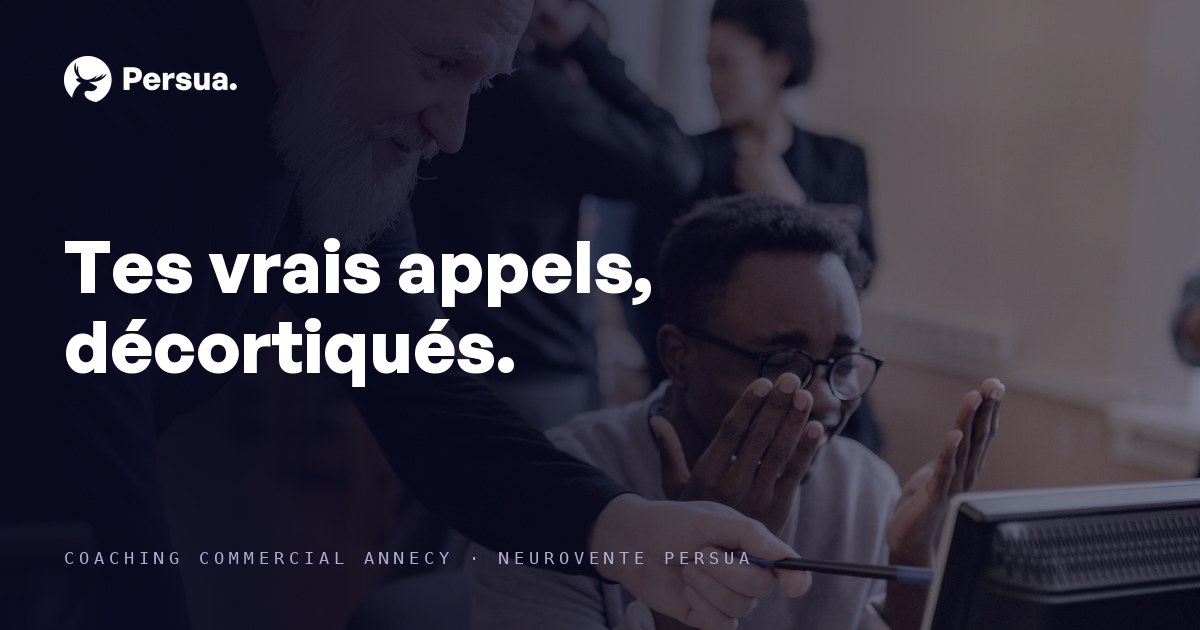
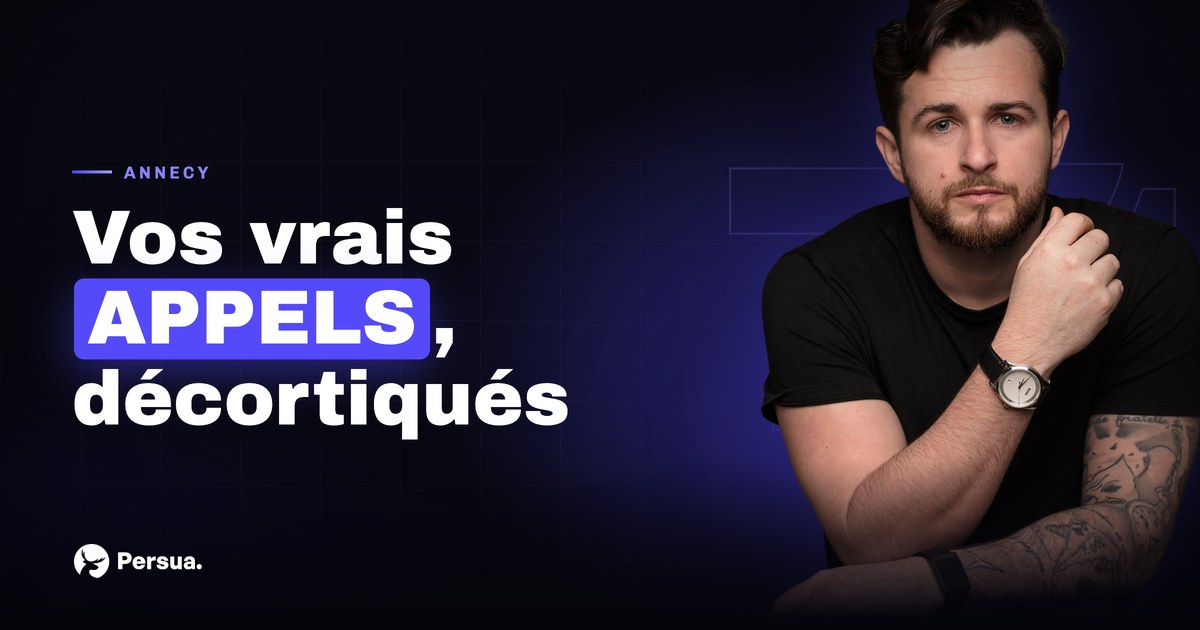
blog: nouvelles couvertures de marque (photo de Steven, DA du kit LinkedIn) pour 32 articles ; image d'en-tête et og:image ajoutées aux 19 articles qui n'en avaient pas

diff --git a/objection-envoyez-moi-une-proposition.html b/objection-envoyez-moi-une-proposition.html
@@ -4,7 +4,7 @@
 <meta charset="UTF-8">
 <meta name="viewport" content="width=device-width, initial-scale=1.0">
 <link rel="icon" type="image/png" href="assets/meta/favicon.png">
-<meta property="og:image" content="https://persua-neurovente.com/assets/meta/og-image.png">
+<meta property="og:image" content="https://persua-neurovente.com/assets/articles/objection-envoyez-moi-une-proposition.jpg">
 <meta property="og:image:width" content="1200">
 <meta property="og:image:height" content="630">
 <meta name="twitter:card" content="summary_large_image">
@@ -47,6 +47,8 @@
   <div class="a-meta"><span class="av">SL</span><span>Par Steven Lefrançois · 6 min de lecture</span></div>
 
   <p class="lead">« Envoyez-moi une proposition par mail » est le plus souvent une fuite polie, pas un signal d'achat. C'est ce que dit un prospect dont le Système 1 n'a rien ressenti et qui cherche à sortir du rendez-vous sans vous vexer. Votre réponse ne consiste pas à ouvrir votre ordinateur, mais à qualifier l'intérêt réel avant d'envoyer quoi que ce soit, et à ancrer une prochaine étape datée. Parce qu'un document écrit, seul, ne vendra jamais à votre place.</p>
+  <figure class="article-hero"><img src="assets/articles/objection-envoyez-moi-une-proposition.jpg" width="1200" height="630" loading="lazy" decoding="async" alt="« Envoyez-moi une proposition par mail » : le piège (et comment réagir)"></figure>
+
 
   <div class="article-body">
     <div class="takeaways">

diff --git a/objection-decideur-absent.html b/objection-decideur-absent.html
@@ -4,7 +4,7 @@
 <meta charset="UTF-8">
 <meta name="viewport" content="width=device-width, initial-scale=1.0">
 <link rel="icon" type="image/png" href="assets/meta/favicon.png">
-<meta property="og:image" content="https://persua-neurovente.com/assets/meta/og-image.png">
+<meta property="og:image" content="https://persua-neurovente.com/assets/articles/objection-decideur-absent.jpg">
 <meta property="og:image:width" content="1200">
 <meta property="og:image:height" content="630">
 <meta name="twitter:card" content="summary_large_image">
@@ -47,6 +47,8 @@
   <div class="a-meta"><span class="av">SL</span><span>Par Steven Lefrançois · 7 min de lecture</span></div>
 
   <p class="lead">« Je dois en parler à mon associé » se gère avant même de l'entendre. La vraie erreur n'est pas de tomber sur un décideur absent, c'est de le découvrir à la fin. Si vous avez cartographié le circuit de décision dès votre découverte, cette phrase ne vous surprend plus : vous savez qui décide, vous avez armé votre interlocuteur pour qu'il vende en interne, et vous proposez d'inclure le décideur plutôt que de le laisser deviner.</p>
+  <figure class="article-hero"><img src="assets/articles/objection-decideur-absent.jpg" width="1200" height="630" loading="lazy" decoding="async" alt="« Je dois en parler à mon associé » : gérer le décideur absent"></figure>
+
 
   <div class="article-body">
     <div class="takeaways">

diff --git a/systeme-1-systeme-2-decision-achat.html b/systeme-1-systeme-2-decision-achat.html
@@ -4,7 +4,7 @@
 <meta charset="UTF-8">
 <meta name="viewport" content="width=device-width, initial-scale=1.0">
 <link rel="icon" type="image/png" href="assets/meta/favicon.png">
-<meta property="og:image" content="https://persua-neurovente.com/assets/meta/og-image.png">
+<meta property="og:image" content="https://persua-neurovente.com/assets/articles/systeme-1-systeme-2-decision-achat.jpg">
 <meta property="og:image:width" content="1200">
 <meta property="og:image:height" content="630">
 <meta name="twitter:card" content="summary_large_image">
@@ -47,6 +47,8 @@
   <div class="a-meta"><span class="av">SL</span><span>Par Steven Lefrançois · 8 min de lecture</span></div>
 
   <p class="lead">Votre client décide d'acheter avec un cerveau qui fonctionne à deux vitesses. Le Système 1, rapide et émotionnel, tranche presque instantanément, bien avant qu'il puisse l'expliquer. Le Système 2, lent et logique, arrive après, non pas pour décider mais pour justifier. Autrement dit : l'émotion décide, la raison habille. Si vous argumentez avant d'avoir fait ressentir, vous parlez au mauvais système au mauvais moment.</p>
+  <figure class="article-hero"><img src="assets/articles/systeme-1-systeme-2-decision-achat.jpg" width="1200" height="630" loading="lazy" decoding="async" alt="Système 1 / Système 2 : comment le cerveau décide d'acheter"></figure>
+
 
   <div class="article-body">
     <div class="takeaways">

diff --git a/questions-ouvertes-vente.html b/questions-ouvertes-vente.html
@@ -4,7 +4,7 @@
 <meta charset="UTF-8">
 <meta name="viewport" content="width=device-width, initial-scale=1.0">
 <link rel="icon" type="image/png" href="assets/meta/favicon.png">
-<meta property="og:image" content="https://persua-neurovente.com/assets/meta/og-image.png">
+<meta property="og:image" content="https://persua-neurovente.com/assets/articles/questions-ouvertes-vente.jpg">
 <meta property="og:image:width" content="1200">
 <meta property="og:image:height" content="630">
 <meta name="twitter:card" content="summary_large_image">
@@ -47,6 +47,8 @@
   <div class="a-meta"><span class="av">SL</span><span>Par Steven Lefrançois · 7 min de lecture</span></div>
 
   <p class="lead">Une question ouverte fait parler votre prospect ; une affirmation le referme. C'est toute la différence entre une découverte qui vend et un monologue qui laisse le client de marbre. La raison est cérébrale : quand le prospect formule son problème avec ses propres mots, son cerveau le tient pour vrai, ce sont ses mots, donc il les croit. Votre job n'est pas de convaincre, c'est de poser la bonne question puis de vous taire.</p>
+  <figure class="article-hero"><img src="assets/articles/questions-ouvertes-vente.jpg" width="1200" height="630" loading="lazy" decoding="async" alt="Poser les bonnes questions ouvertes en rendez-vous de vente"></figure>
+
 
   <div class="article-body">
     <div class="takeaways">

diff --git a/objection-je-n-ai-pas-le-temps.html b/objection-je-n-ai-pas-le-temps.html
@@ -4,7 +4,7 @@
 <meta charset="UTF-8">
 <meta name="viewport" content="width=device-width, initial-scale=1.0">
 <link rel="icon" type="image/png" href="assets/meta/favicon.png">
-<meta property="og:image" content="https://persua-neurovente.com/assets/meta/og-image.png">
+<meta property="og:image" content="https://persua-neurovente.com/assets/articles/objection-je-n-ai-pas-le-temps.jpg">
 <meta property="og:image:width" content="1200">
 <meta property="og:image:height" content="630">
 <meta name="twitter:card" content="summary_large_image">
@@ -47,6 +47,8 @@
   <div class="a-meta"><span class="av">SL</span><span>Par Steven Lefrançois · 6 min de lecture</span></div>
 
   <p class="lead">« Je n'ai pas le temps » est presque toujours une objection de priorité, pas d'agenda. Votre prospect a le temps, il ne le voit juste pas pour vous, parce qu'il n'a pas assez ressenti ce que votre offre lui apporte ou ce que son problème actuel lui coûte. Votre réponse ne consiste donc pas à trouver un créneau, mais à faire remonter la valeur et le coût de l'inaction, sans jamais le culpabiliser.</p>
+  <figure class="article-hero"><img src="assets/articles/objection-je-n-ai-pas-le-temps.jpg" width="1200" height="630" loading="lazy" decoding="async" alt="« Je n'ai pas le temps » : comment répondre à l'objection temps"></figure>
+
 
   <div class="article-body">
     <div class="takeaways">

diff --git a/techniques-de-closing.html b/techniques-de-closing.html
@@ -4,7 +4,7 @@
 <meta charset="UTF-8">
 <meta name="viewport" content="width=device-width, initial-scale=1.0">
 <link rel="icon" type="image/png" href="assets/meta/favicon.png">
-<meta property="og:image" content="https://persua-neurovente.com/assets/meta/og-image.png">
+<meta property="og:image" content="https://persua-neurovente.com/assets/articles/techniques-de-closing.jpg">
 <meta property="og:image:width" content="1200">
 <meta property="og:image:height" content="630">
 <meta name="twitter:card" content="summary_large_image">
@@ -47,6 +47,8 @@
   <div class="a-meta"><span class="av">SL</span><span>Par Steven Lefrançois · 7 min de lecture</span></div>
 
   <p class="lead">Un bon closing ne force personne : il aide un cerveau qui a déjà envie à passer à l'action sans se surcharger. Voici cinq façons de conclure une vente sans pression, par la question, par l'alternative, par la prochaine étape, par le récap de valeur, par le silence, chacune reliée à un mécanisme réel de la décision. Aucune ne fabrique un oui : elles lèvent ce qui empêchait un oui déjà présent de sortir.</p>
+  <figure class="article-hero"><img src="assets/articles/techniques-de-closing.jpg" width="1200" height="630" loading="lazy" decoding="async" alt="Les 5 techniques de closing éthiques (validées par les neurosciences)"></figure>
+
 
   <div class="article-body">
     <div class="takeaways">

diff --git a/vendre-sans-manipuler.html b/vendre-sans-manipuler.html
@@ -4,7 +4,7 @@
 <meta charset="UTF-8">
 <meta name="viewport" content="width=device-width, initial-scale=1.0">
 <link rel="icon" type="image/png" href="assets/meta/favicon.png">
-<meta property="og:image" content="https://persua-neurovente.com/assets/meta/og-image.png">
+<meta property="og:image" content="https://persua-neurovente.com/assets/articles/vendre-sans-manipuler.jpg">
 <meta property="og:image:width" content="1200">
 <meta property="og:image:height" content="630">
 <meta name="twitter:card" content="summary_large_image">
@@ -47,6 +47,8 @@
   <div class="a-meta"><span class="av">SL</span><span>Par Steven Lefrançois · 7 min de lecture</span></div>
 
   <p class="lead">Comprendre comment le cerveau décide n'est pas une arme pour forcer les gens : c'est un outil pour mieux les servir. La vente éthique repose sur une idée simple : on ne crée pas de besoin, on aide une personne qui a un vrai problème à le voir clairement et à décider sans pression. La ligne rouge est nette : vous influencez quand vous servez l'intérêt du client, vous manipulez quand vous le servez contre lui.</p>
+  <figure class="article-hero"><img src="assets/articles/vendre-sans-manipuler.jpg" width="1200" height="630" loading="lazy" decoding="async" alt="Vendre sans manipuler : la vente éthique par les neurosciences"></figure>
+
 
   <div class="article-body">
     <div class="takeaways">

diff --git a/la-decouverte-en-vente.html b/la-decouverte-en-vente.html
@@ -4,7 +4,7 @@
 <meta charset="UTF-8">
 <meta name="viewport" content="width=device-width, initial-scale=1.0">
 <link rel="icon" type="image/png" href="assets/meta/favicon.png">
-<meta property="og:image" content="https://persua-neurovente.com/assets/meta/og-image.png">
+<meta property="og:image" content="https://persua-neurovente.com/assets/articles/la-decouverte-en-vente.jpg">
 <meta property="og:image:width" content="1200">
 <meta property="og:image:height" content="630">
 <meta name="twitter:card" content="summary_large_image">
@@ -47,6 +47,8 @@
   <div class="a-meta"><span class="av">SL</span><span>Par Steven Lefrançois · 7 min de lecture</span></div>
 
   <p class="lead">La découverte, c'est l'essentiel d'un bon rendez-vous de vente : la phase où vous faites parler le client de son problème, pas celle où vous déroulez votre offre. Trois questions de douleur chiffrée suffisent à faire l'essentiel du travail, le coût actuel, les tentatives passées, le coût de l'inaction. Leur pouvoir tient à une chose : c'est le prospect qui formule le problème, avec ses mots, donc il le croit.</p>
+  <figure class="article-hero"><img src="assets/articles/la-decouverte-en-vente.jpg" width="1200" height="630" loading="lazy" decoding="async" alt="La découverte en vente : les 3 questions qui font signer"></figure>
+
 
   <div class="article-body">
     <div class="takeaways">

diff --git a/conclure-une-vente-sans-etre-pushy.html b/conclure-une-vente-sans-etre-pushy.html
@@ -4,7 +4,7 @@
 <meta charset="UTF-8">
 <meta name="viewport" content="width=device-width, initial-scale=1.0">
 <link rel="icon" type="image/png" href="assets/meta/favicon.png">
-<meta property="og:image" content="https://persua-neurovente.com/assets/meta/og-image.png">
+<meta property="og:image" content="https://persua-neurovente.com/assets/articles/conclure-une-vente-sans-etre-pushy.jpg">
 <meta property="og:image:width" content="1200">
 <meta property="og:image:height" content="630">
 <meta name="twitter:card" content="summary_large_image">
@@ -47,6 +47,8 @@
   <div class="a-meta"><span class="av">SL</span><span>Par Steven Lefrançois · 7 min de lecture</span></div>
 
   <p class="lead">On ne conclut pas une vente en poussant plus fort à la fin : on la conclut en ayant bien fait la découverte au début. Le sentiment d'être « pushy » vient presque toujours d'un manque : vous n'avez pas assez fait parler votre prospect, alors vous compensez par de la pression. La bonne conclusion tient en une seule chose : proposer une prochaine étape claire, une date et une décision, d'une voix calme.</p>
+  <figure class="article-hero"><img src="assets/articles/conclure-une-vente-sans-etre-pushy.jpg" width="1200" height="630" loading="lazy" decoding="async" alt="Comment conclure une vente sans être pushy"></figure>
+
 
   <div class="article-body">
     <div class="takeaways">

diff --git a/le-silence-apres-le-prix.html b/le-silence-apres-le-prix.html
@@ -4,7 +4,7 @@
 <meta charset="UTF-8">
 <meta name="viewport" content="width=device-width, initial-scale=1.0">
 <link rel="icon" type="image/png" href="assets/meta/favicon.png">
-<meta property="og:image" content="https://persua-neurovente.com/assets/meta/og-image.png">
+<meta property="og:image" content="https://persua-neurovente.com/assets/articles/le-silence-apres-le-prix.jpg">
 <meta property="og:image:width" content="1200">
 <meta property="og:image:height" content="630">
 <meta name="twitter:card" content="summary_large_image">
@@ -44,6 +44,8 @@
   <div class="a-meta"><span class="av">SL</span><span>Par Steven Lefrançois · 6 min de lecture</span></div>
 
   <p class="lead">Après avoir annoncé votre prix, taisez-vous. Complètement. Le cerveau de votre client a besoin de ces quelques secondes pour traiter le chiffre, et il lit votre silence comme un signal d'assurance. Si vous comblez le vide par nervosité, vous envoyez le signal inverse et vous l'invitez vous-même à négocier. Le moment le plus rentable d'un rendez-vous est celui où vous ne dites rien.</p>
+  <figure class="article-hero"><img src="assets/articles/le-silence-apres-le-prix.jpg" width="1200" height="630" loading="lazy" decoding="async" alt="Le silence après le prix : la technique de closing la plus sous-estimée"></figure>
+
 
   <div class="article-body">
     <div class="takeaways">

diff --git a/storytelling-en-vente.html b/storytelling-en-vente.html
@@ -4,7 +4,7 @@
 <meta charset="UTF-8">
 <meta name="viewport" content="width=device-width, initial-scale=1.0">
 <link rel="icon" type="image/png" href="assets/meta/favicon.png">
-<meta property="og:image" content="https://persua-neurovente.com/assets/meta/og-image.png">
+<meta property="og:image" content="https://persua-neurovente.com/assets/articles/storytelling-en-vente.jpg">
 <meta property="og:image:width" content="1200">
 <meta property="og:image:height" content="630">
 <meta name="twitter:card" content="summary_large_image">
@@ -47,6 +47,8 @@
   <div class="a-meta"><span class="av">SL</span><span>Par Steven Lefrançois · 7 min de lecture</span></div>
 
   <p class="lead">Le cerveau retient et ressent une histoire bien mieux qu'une liste d'arguments, parce que le récit parle au Système 1 (rapide, émotionnel), celui qui décide en premier. Une bonne histoire de vente tient en trois temps : une situation de départ, une tension, une transformation. Bien racontée, elle ne décrit pas un résultat : elle le fait vivre au client, qui se projette et se voit transformé.</p>
+  <figure class="article-hero"><img src="assets/articles/storytelling-en-vente.jpg" width="1200" height="630" loading="lazy" decoding="async" alt="Le storytelling en vente : pourquoi le cerveau achète des histoires"></figure>
+
 
   <div class="article-body">
     <div class="takeaways">

diff --git a/douleur-ou-plaisir-vente.html b/douleur-ou-plaisir-vente.html
@@ -4,7 +4,7 @@
 <meta charset="UTF-8">
 <meta name="viewport" content="width=device-width, initial-scale=1.0">
 <link rel="icon" type="image/png" href="assets/meta/favicon.png">
-<meta property="og:image" content="https://persua-neurovente.com/assets/meta/og-image.png">
+<meta property="og:image" content="https://persua-neurovente.com/assets/articles/douleur-ou-plaisir-vente.jpg">
 <meta property="og:image:width" content="1200">
 <meta property="og:image:height" content="630">
 <meta name="twitter:card" content="summary_large_image">
@@ -47,6 +47,8 @@
   <div class="a-meta"><span class="av">SL</span><span>Par Steven Lefrançois · 7 min de lecture</span></div>
 
   <p class="lead">Les deux, mais dans un ordre précis. Le cerveau ressent une perte environ deux fois plus fort qu'un gain équivalent (Kahneman et Tversky). Donc vous faites d'abord ressentir le coût de la situation actuelle, ce que le statu quo lui prend chaque jour, puis vous projetez le résultat désiré. La douleur met en mouvement, le désir donne la direction. Et jamais d'angoisse fabriquée.</p>
+  <figure class="article-hero"><img src="assets/articles/douleur-ou-plaisir-vente.jpg" width="1200" height="630" loading="lazy" decoding="async" alt="Vendre par la douleur ou par le plaisir ? Ce que dit la neuroscience"></figure>
+
 
   <div class="article-body">
     <div class="takeaways">
